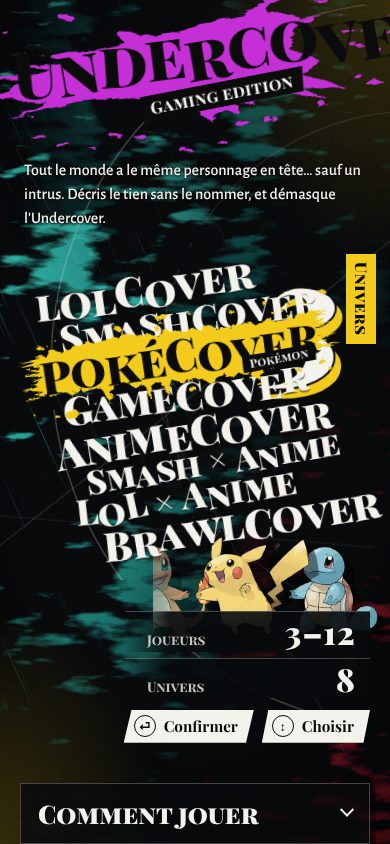
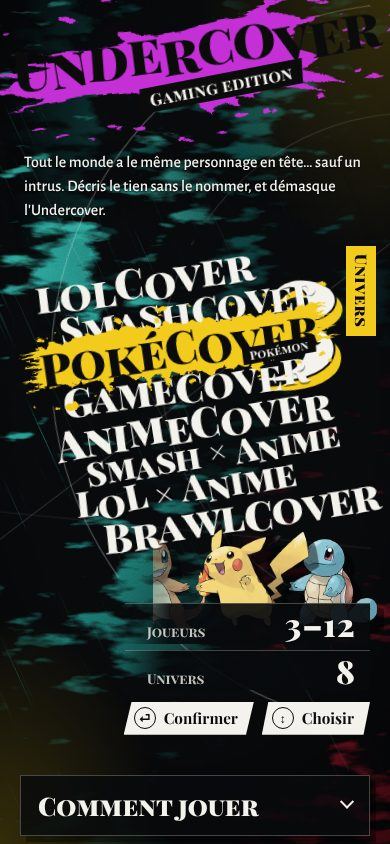
Titre de l'écran titre entier sur mobile
Claude-Session: https://claude.ai/code/session_01J4Lyn19Sxs4PNSTusjNLPC

diff --git a/client/src/styles/metaphor.css b/client/src/styles/metaphor.css
@@ -201,7 +201,7 @@
   position: relative;
   font-family: var(--font-caps);
   font-weight: 900;
-  font-size: clamp(3.3rem, 16.5vw, 8.4rem);
+  font-size: clamp(3rem, 14.2vw, 8.4rem);
   line-height: 0.88;
   letter-spacing: -0.02em;
   color: var(--ink);
